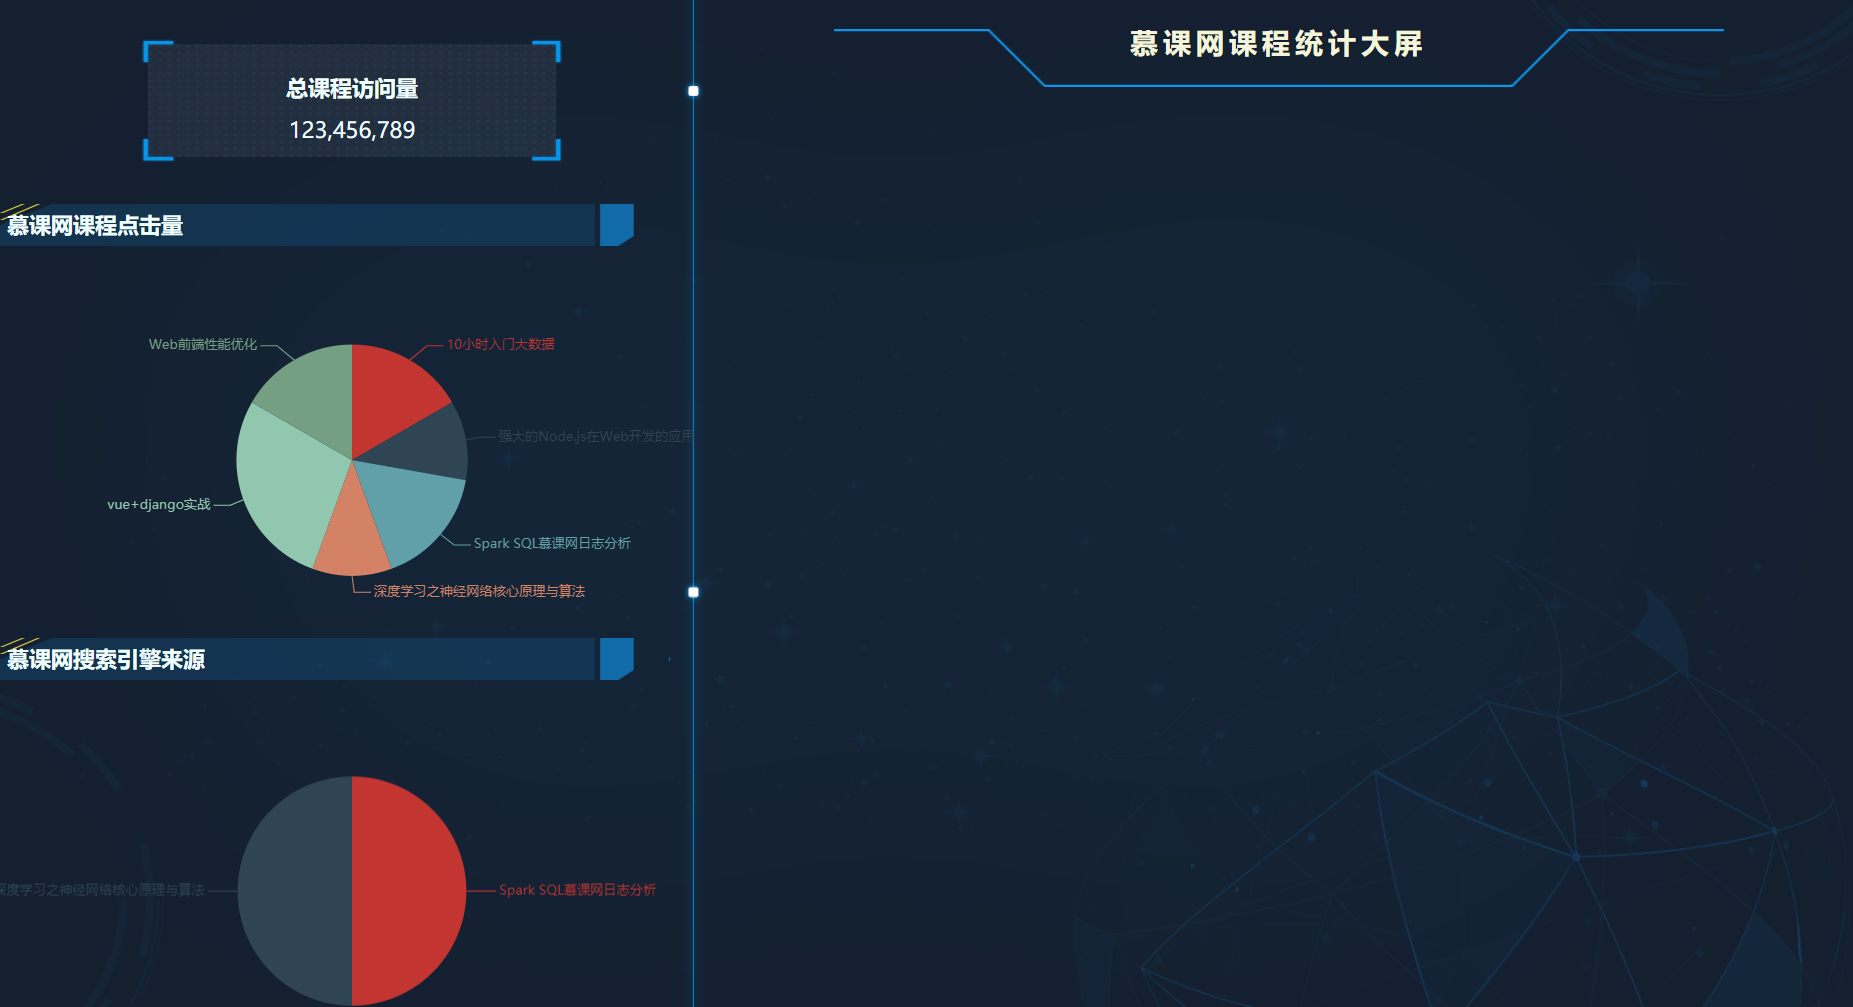
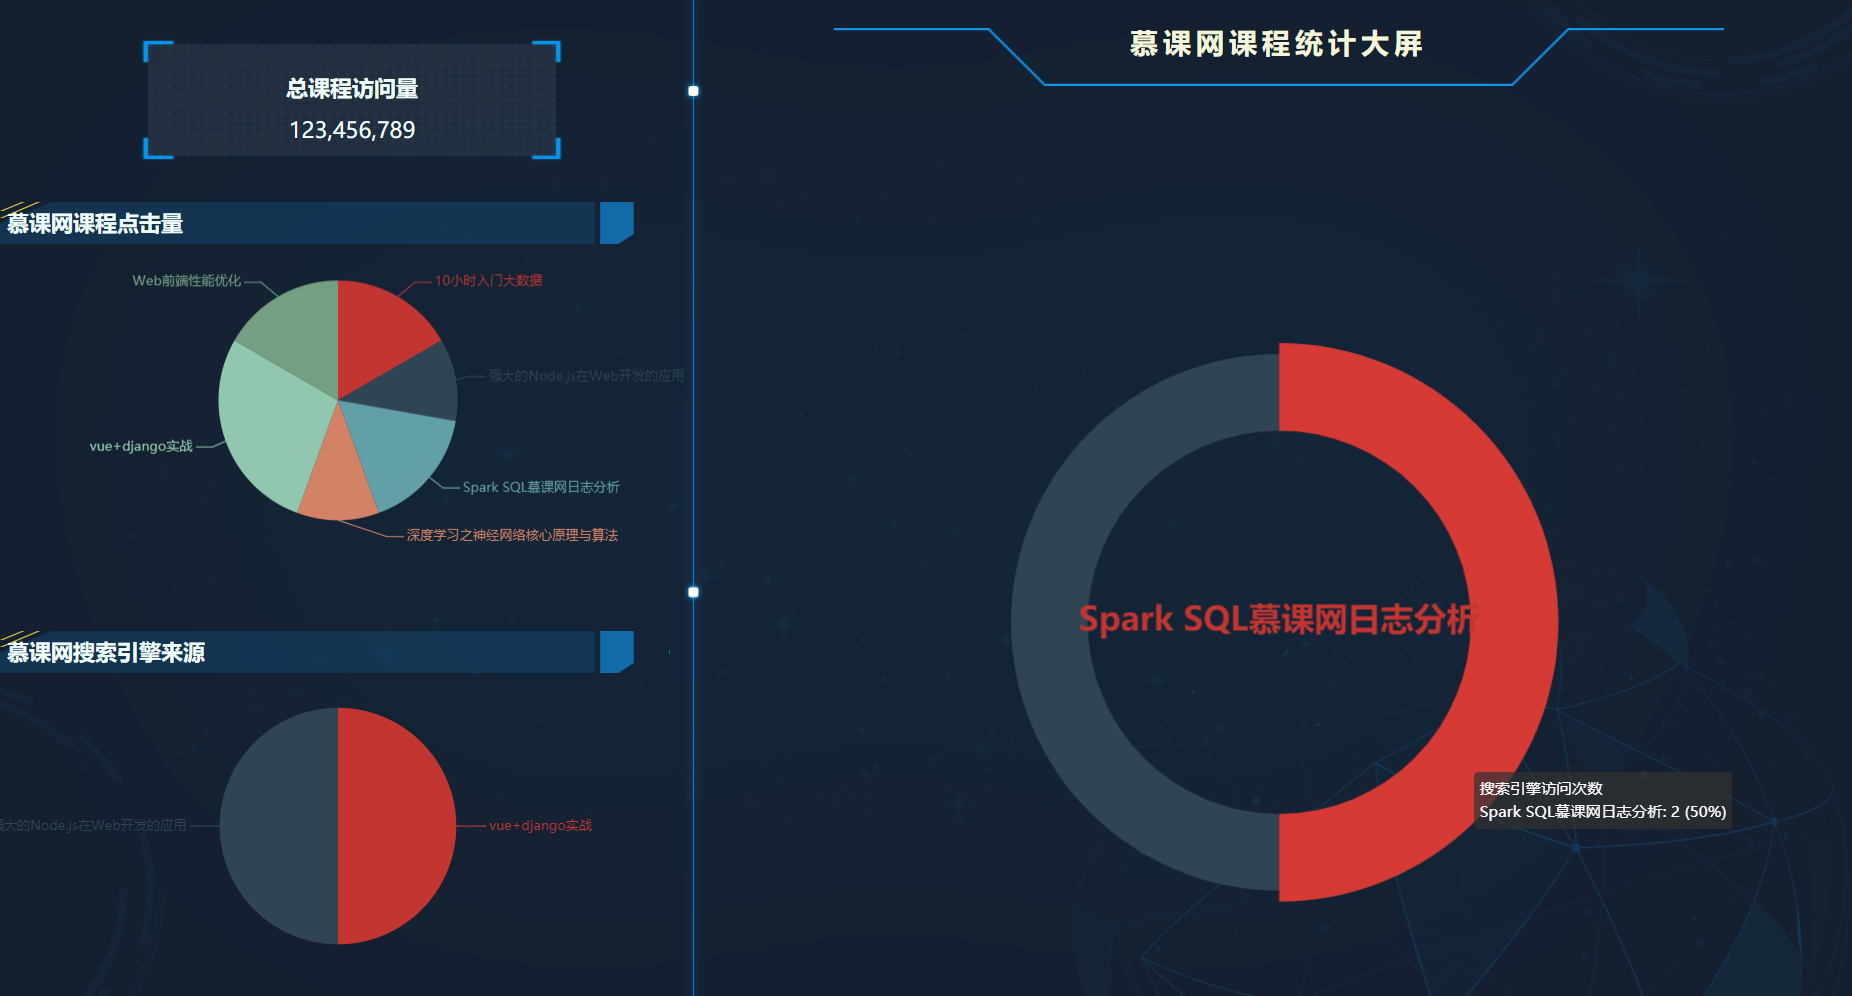
1.大屏展示：第三步：CourseSearch实现前端展示三个图片， 访问：http://localhost:9999/imooc/demo_time，展示结果SparkStreamingMoocCourse/BI/demo_time.png

diff --git a/WebSpring/src/main/resources/templates/demo_time.html b/WebSpring/src/main/resources/templates/demo_time.html
@@ -8,7 +8,7 @@
     <script src="js/echarts.min.js"></script>
     <!-- 引入 jquery 文件 -->
     <script src="js/jquery.js"></script>
-    <!--<link rel="stylesheet" href="../static/css/style.css">&lt;!&ndash;测试环境&ndash;&gt;-->
+    <link rel="stylesheet" href="../static/css/style.css"><!--测试环境-->
     <link rel="stylesheet" href="css/style.css"> <!--生产环境-->
 
 </head>
@@ -55,11 +55,12 @@
             <div class="center-top">
                 <h1 align="center" style="font-size: 25px;color: beige "><strong>慕课网课程统计大屏</strong> </h1>
             </div>
-            <div class="center-center">
+            <div class="center-center" >
 
 
             </div>
-            <div class="center-bottom">
+            <!--搜索引擎引流量Circle图-->
+            <div class="center-bottom" id="mainCircle">
 
             </div>
 
@@ -154,7 +155,7 @@
                         var datas = [];
                         $.ajax({
                             type: "POST",
-                            url: "/imooc/course_searchclickcount_dynamic",
+                            url: "/imooc/course_searchclickcount_dynamic?datetime=20191109&searchengine=www.baidu.com",
                             dataType: 'json',
                             async: false,
                             success: function(result) {
@@ -179,6 +180,79 @@
 
         // 使用刚指定的配置项和数据显示图表。
         myChart2.setOption(option);
+    </script>
+
+    <!--搜索引擎引流量第二个-->
+    <!--环形图-->
+    <script type="text/javascript">
+        // 基于准备好的dom，初始化echarts实例
+        var myChart = echarts.init(document.getElementById('mainCircle'));
+
+        // 指定图表的配置项和数据
+        option = {
+            tooltip: {
+                trigger: 'item',
+                formatter: "{a} <br/>{b}: {c} ({d}%)"
+            },
+            legend: {
+                orient: 'vertical',
+                x: 'left',
+//                data:['直接访问','邮件营销','联盟广告','视频广告','搜索引擎']
+            },
+            series: [
+                {
+                    name:'搜索引擎访问次数',
+                    type:'pie',
+                    radius: ['50%', '70%'],
+                    avoidLabelOverlap: false,
+                    label: {
+                        normal: {
+                            show: false,
+                            position: 'center'
+                        },
+                        emphasis: {
+                            show: true,
+                            textStyle: {
+                                fontSize: '30',
+                                fontWeight: 'bold'
+                            }
+                        }
+                    },
+                    labelLine: {
+                        normal: {
+                            show: false
+                        }
+                    },
+                    data:(function(){ //<![CDATA[
+                        var datas = [];
+                        $.ajax({
+                            type: "POST",
+                            url: "/imooc/course_searchclickcount_dynamic?datetime=20191109&searchengine=search.yahoo.com",
+                            dataType: 'json',
+                            async: false,
+                            success: function(result) {
+                                for(var i=0; i<result.length; i++) {
+                                    datas.push({"value":result[i].value, "name":result[i].name})
+                                }
+                            }
+                        })
+                        return datas;
+                        //]]>
+                    })()
+//                    ,
+//                    data:[
+//                        {value:335, name:'直接访问'},
+//                        {value:310, name:'邮件营销'},
+//                        {value:234, name:'联盟广告'},
+//                        {value:135, name:'视频广告'},
+//                        {value:1548, name:'搜索引擎'}
+//                    ]
+                }
+            ]
+        };
+
+        // 使用刚指定的配置项和数据显示图表。
+        myChart.setOption(option);
     </script>
 </body>
 

diff --git a/WebSpring/src/main/java/com/imooc/spark/ImoocStatApp.java b/WebSpring/src/main/java/com/imooc/spark/ImoocStatApp.java
@@ -11,10 +11,7 @@ import com.imooc.domain.CourseClickCount;
 import com.imooc.domain.CourseSearchClickCount;
 import net.sf.json.JSONArray;
 import org.springframework.beans.factory.annotation.Autowired;
-import org.springframework.web.bind.annotation.RequestMapping;
-import org.springframework.web.bind.annotation.RequestMethod;
-import org.springframework.web.bind.annotation.ResponseBody;
-import org.springframework.web.bind.annotation.RestController;
+import org.springframework.web.bind.annotation.*;
 import org.springframework.web.servlet.ModelAndView;
 
 import java.text.SimpleDateFormat;
@@ -90,12 +87,14 @@ public class ImoocStatApp {
 //        return view;
     }
 
-    /**
+     /**
      * 获得某日某个引擎引流过来的点击量
+     * @param datetime 某日，格式例如：20191109
+     * @param searchengine 某个搜索引擎，例如：search.yahoo.com
      * @return
      * @throws Exception
      * 验证：
-     [
+    [
     {
     "name": "Spark SQL慕课网日志分析",
     "value": 2
@@ -108,13 +107,14 @@ public class ImoocStatApp {
      */
     @RequestMapping(value="/course_searchclickcount_dynamic",method = RequestMethod.POST)
     @ResponseBody
-    public List<CourseSearchClickCount> courseSearchClickCount() throws Exception{
+    public List<CourseSearchClickCount> courseSearchClickCount(@RequestParam(value = "datetime") String datetime,@RequestParam(name = "searchengine" ) String searchengine) throws Exception{
 //    public ModelAndView courseClickCount() throws Exception{
         //自己添加修改20181126，否则总是一天的。
 //        SimpleDateFormat df = new SimpleDateFormat("yyyyMMdd");
 //        String date = df.format(new Date());
 
-        List<CourseSearchClickCount> list = courseSearchClickCountDAO.queryDayEngineCourse("20191109","search.yahoo.com");
+//        List<CourseSearchClickCount> list = courseSearchClickCountDAO.queryDayEngineCourse("20191109","search.yahoo.com");
+        List<CourseSearchClickCount> list = courseSearchClickCountDAO.queryDayEngineCourse(datetime,searchengine);
         //        List<CourseClickCount> list = courseClickCountDAO.query(date);
         for (CourseSearchClickCount model:list ){
             try {
